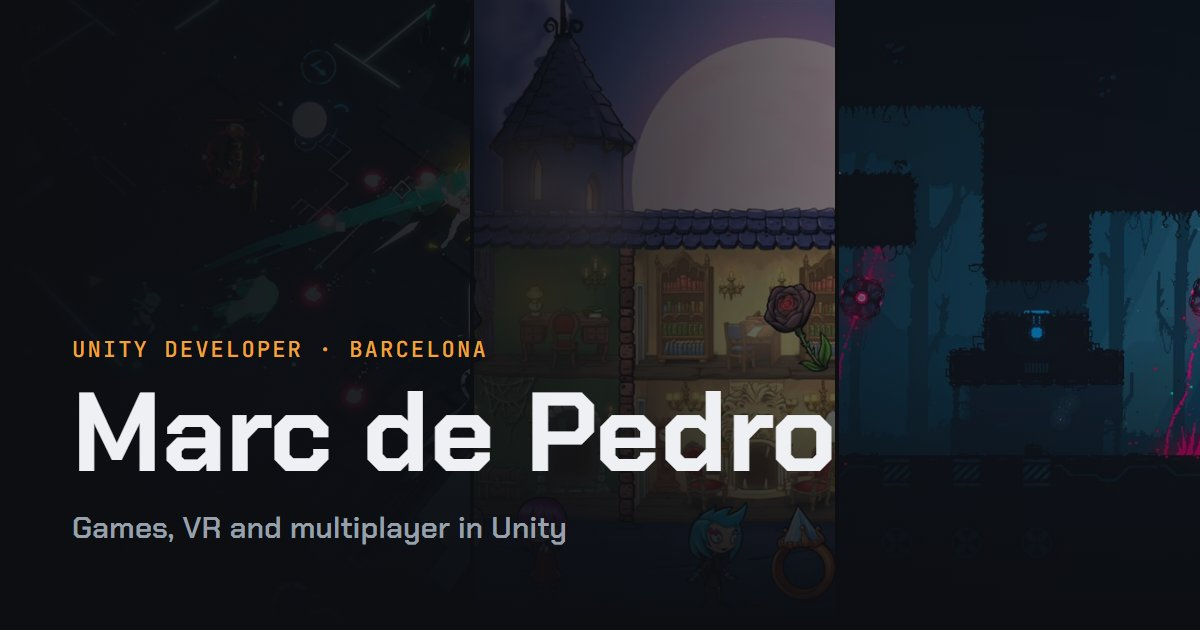
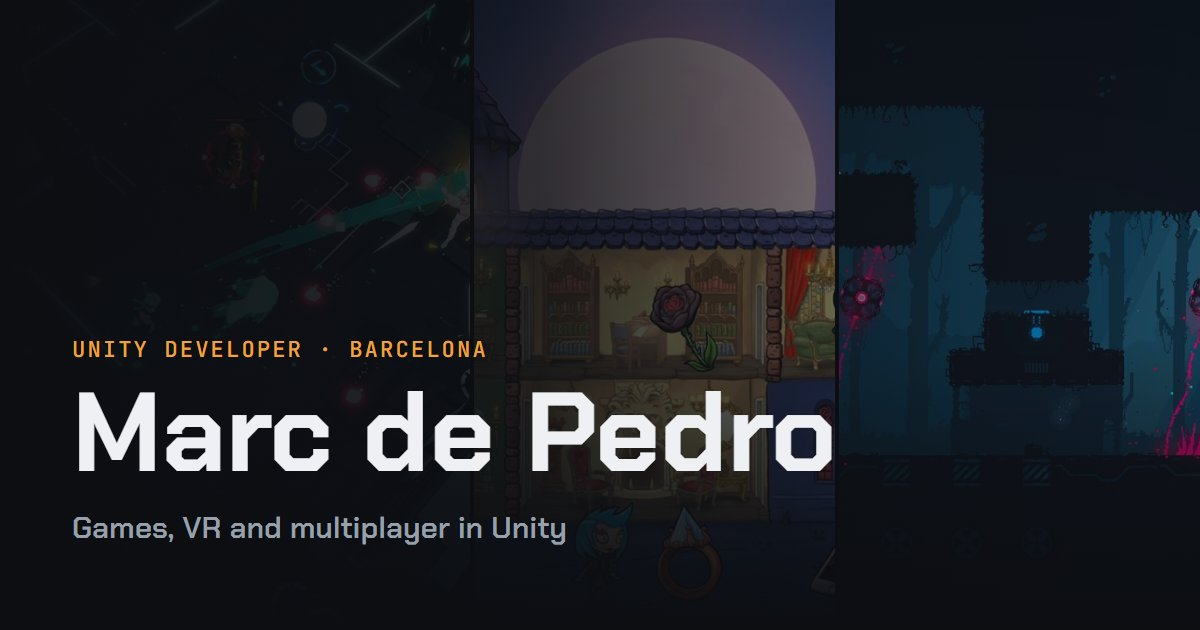
Crop rules panel from hero shot, new main and daytime shot for The Singular Ones

diff --git a/index.html b/index.html
@@ -212,7 +212,7 @@ footer p { margin: 0; color: var(--muted); }
   <div class="mosaic" aria-hidden="true">
     <img src="media/img/deflector-1.jpg" alt="">
     <img src="media/img/reseed-1.jpg" alt="">
-    <img src="media/img/singular-3.jpg" alt="">
+    <img src="media/img/singular-hero.jpg" alt="">
   </div>
   <div class="wrap">
     <div class="hero-in">
@@ -284,11 +284,11 @@ footer p { margin: 0; color: var(--muted); }
 
         <article class="slide feature" id="singular-ones" aria-roledescription="slide" aria-label="2 of 3: The Singular Ones">
           <div class="shots" data-trailer="https://video.akamai.steamstatic.com/store_trailers/4754310/788719265/bf53c22b9369df2d5a8b7f0c2a550607ce240f05/1779184134/hls_264_master.m3u8?t=1780572088">
-            <div class="stage"><img src="media/img/singular-1.jpg" alt="The Singular Ones screenshot"></div>
+            <div class="stage"><img src="media/img/singular-3.jpg" alt="The Singular Ones screenshot"></div>
             <div class="thumbs">
-              <button type="button" aria-pressed="true" aria-label="Screenshot 1"><img src="media/img/singular-1.jpg" alt=""></button>
-              <button type="button" aria-pressed="false" aria-label="Screenshot 2"><img src="media/img/singular-2.jpg" alt=""></button>
-              <button type="button" aria-pressed="false" aria-label="Screenshot 3"><img src="media/img/singular-3.jpg" alt=""></button>
+              <button type="button" aria-pressed="true" aria-label="Screenshot 1"><img src="media/img/singular-3.jpg" alt=""></button>
+              <button type="button" aria-pressed="false" aria-label="Screenshot 2"><img src="media/img/singular-5.jpg" alt=""></button>
+              <button type="button" aria-pressed="false" aria-label="Screenshot 3"><img src="media/img/singular-2.jpg" alt=""></button>
               <button type="button" aria-pressed="false" aria-label="Screenshot 4"><img src="media/img/singular-4.jpg" alt=""></button>
             </div>
           </div>
